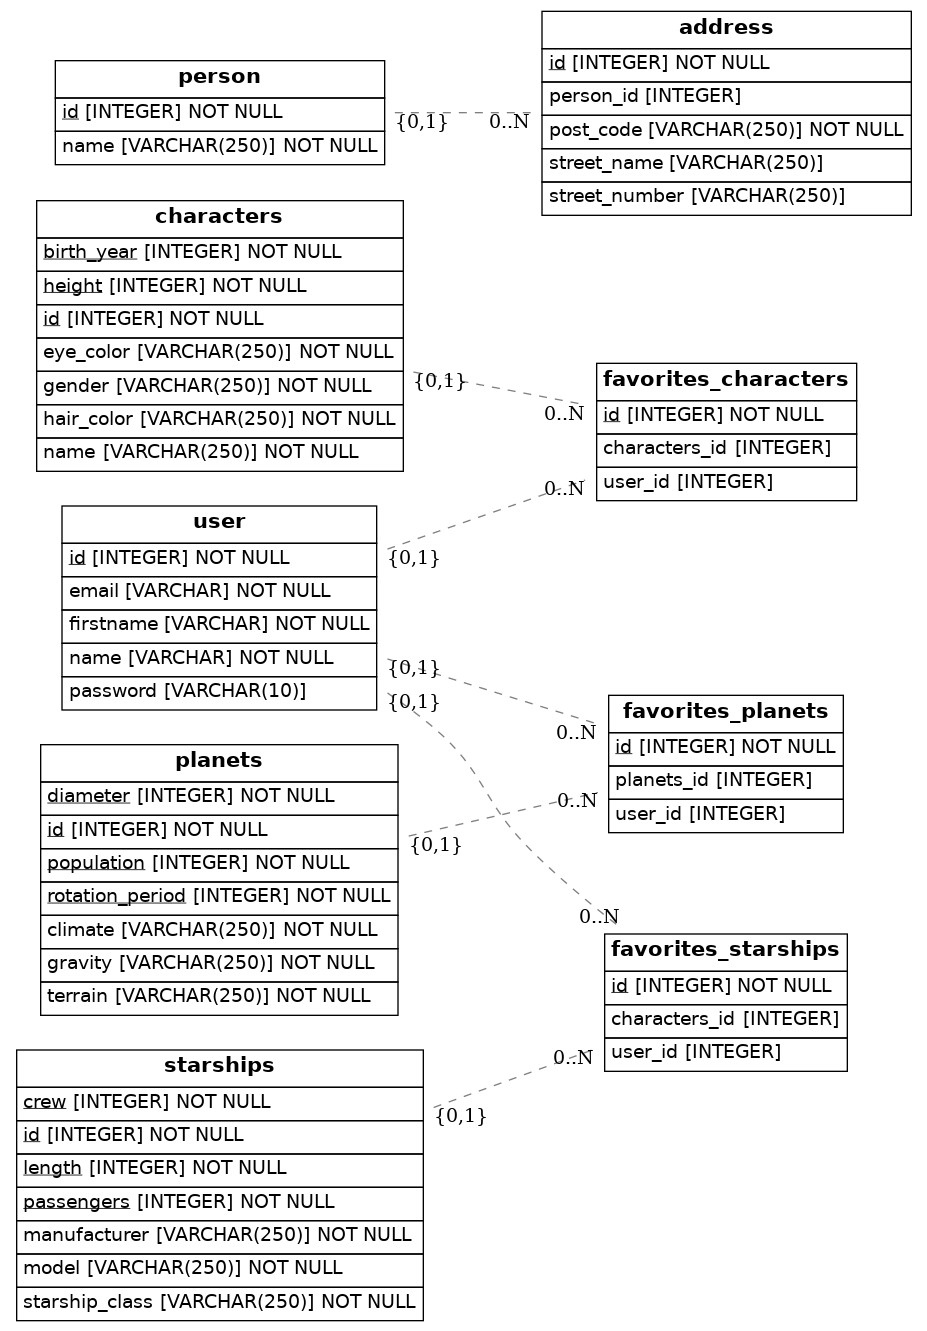
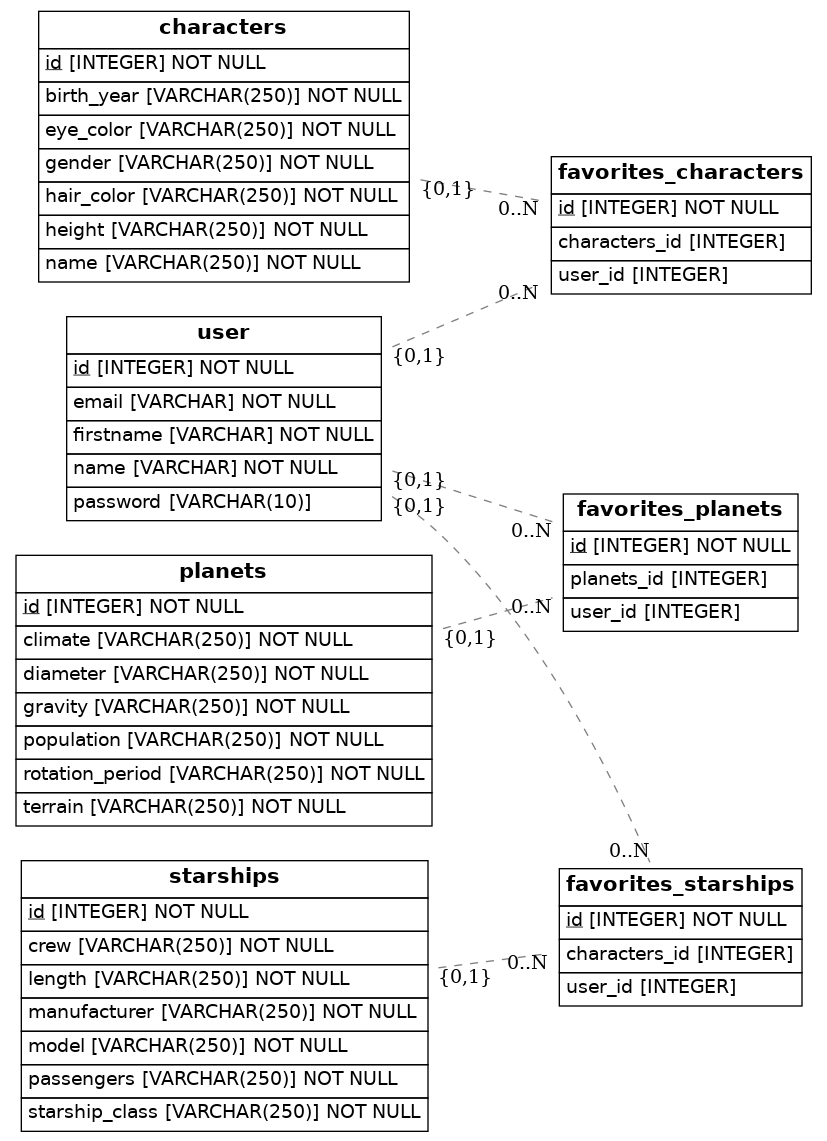
Final commit

Changed region(s): [[0.0, 0.0, 0.9976, 1.0], [0.6046, 0.6748, 0.9674, 0.8896]]

diff --git a/src/models.py b/src/models.py
@@ -13,78 +13,90 @@ class User(Base):
     name = Column(String, nullable=False)
     firstname = Column(String, nullable=False)
     email = Column (String, nullable=False, unique=True)
-    password = Column (String(10)) 
+    password = Column (String(10))
+    favorite_characters = relationship('Favorites_characters', back_populates='user')
+    favorite_planets = relationship('Favorites_planets', back_populates='user')
+    favorite_starships = relationship('Favorites_starships', back_populates='user') 
 
-class Characters(Base):
+class Character(Base):
     __tablename__ = 'characters'
     id = Column(Integer, primary_key=True)
     name= Column(String(250), nullable=False)
     gender = Column(String(250), nullable = False)
-    height = Column(Integer, primary_key=True)
+    height = Column(String(250), nullable = False)
     hair_color = Column(String(250), nullable = False)
     eye_color = Column(String(250), nullable = False)
-    birth_year = Column(Integer, primary_key=True)
+    birth_year = Column(String(250), nullable = False)
+    favorites = relationship('Favorites_characters', back_populates='character')
 
-class Planets(Base):
+class Planet(Base):
     __tablename__ = 'planets'
     id = Column(Integer, primary_key=True)
-    diameter = Column(Integer, primary_key=True)
-    rotation_period = Column(Integer, primary_key=True)
+    diameter = Column(String(250), nullable = False)
+    rotation_period = Column(String(250), nullable = False)
     gravity = Column(String(250), nullable = False)
-    population = Column(Integer, primary_key=True)
+    population = Column(String(250), nullable = False)
     climate = Column(String(250), nullable = False)
     terrain = Column(String(250), nullable = False)
+    favorites = relationship('Favorites_planets', back_populates='planet')
     
 
-class Starships(Base):
+class Starship(Base):
     __tablename__ = 'starships'
     id = Column(Integer, primary_key=True)
     model = Column(String(250), nullable = False)
     starship_class = Column(String(250), nullable = False)
     manufacturer = Column(String(250), nullable = False)
-    length = Column(Integer, primary_key=True)
-    crew = Column(Integer, primary_key=True)
-    passengers = Column(Integer, primary_key=True)
+    length = Column(String(250), nullable = False)
+    crew = Column(String(250), nullable = False)
+    passengers = Column(String(250), nullable = False)
+    favorites = relationship('Favorites_starships', back_populates='starship')
 
 class Favorites_characters(Base):
     __tablename__ = 'favorites_characters'
     id = Column(Integer, primary_key=True)
     characters_id = Column(Integer, ForeignKey('characters.id'))
     user_id = Column(Integer, ForeignKey('user.id'))
+    character = relationship('Character', back_populates='favorites')
+    user = relationship('User', back_populates='favorite_characters')
 
 class Favorites_planets(Base):
     __tablename__ = 'favorites_planets'
     id = Column(Integer, primary_key=True)
     planets_id = Column(Integer, ForeignKey('planets.id'))
     user_id = Column(Integer, ForeignKey('user.id'))
+    planet = relationship('Planet', back_populates='favorites')
+    user = relationship('User', back_populates='favorite_planets')
 
 class Favorites_starships(Base):
     __tablename__ = 'favorites_starships'
     id = Column(Integer, primary_key=True)
     characters_id = Column(Integer, ForeignKey('starships.id'))
     user_id = Column(Integer, ForeignKey('user.id'))
+    starship = relationship('Starship', back_populates='favorites')
+    user = relationship('User', back_populates='favorite_starships')
 
 
 # ----------------------------------------------------------------
 # ----------------------------------------------------------------
 
-class Person(Base):
-    __tablename__ = 'person'
-    # Here we define columns for the table person
-    # Notice that each column is also a normal Python instance attribute.
-    id = Column(Integer, primary_key=True)
-    name = Column(String(250), nullable=False)
+# class Person(Base):
+#     __tablename__ = 'person'
+#     # Here we define columns for the table person
+#     # Notice that each column is also a normal Python instance attribute.
+#     id = Column(Integer, primary_key=True)
+#     name = Column(String(250), nullable=False)
 
-class Address(Base):
-    __tablename__ = 'address'
-    # Here we define columns for the table address.
-    # Notice that each column is also a normal Python instance attribute.
-    id = Column(Integer, primary_key=True)
-    street_name = Column(String(250))
-    street_number = Column(String(250))
-    post_code = Column(String(250), nullable=False)
-    person_id = Column(Integer, ForeignKey('person.id'))
-    person = relationship(Person)
+# class Address(Base):
+#     __tablename__ = 'address'
+#     # Here we define columns for the table address.
+#     # Notice that each column is also a normal Python instance attribute.
+#     id = Column(Integer, primary_key=True)
+#     street_name = Column(String(250))
+#     street_number = Column(String(250))
+#     post_code = Column(String(250), nullable=False)
+#     person_id = Column(Integer, ForeignKey('person.id'))
+#     person = relationship(Person)
 
     def to_dict(self):
         return {}
